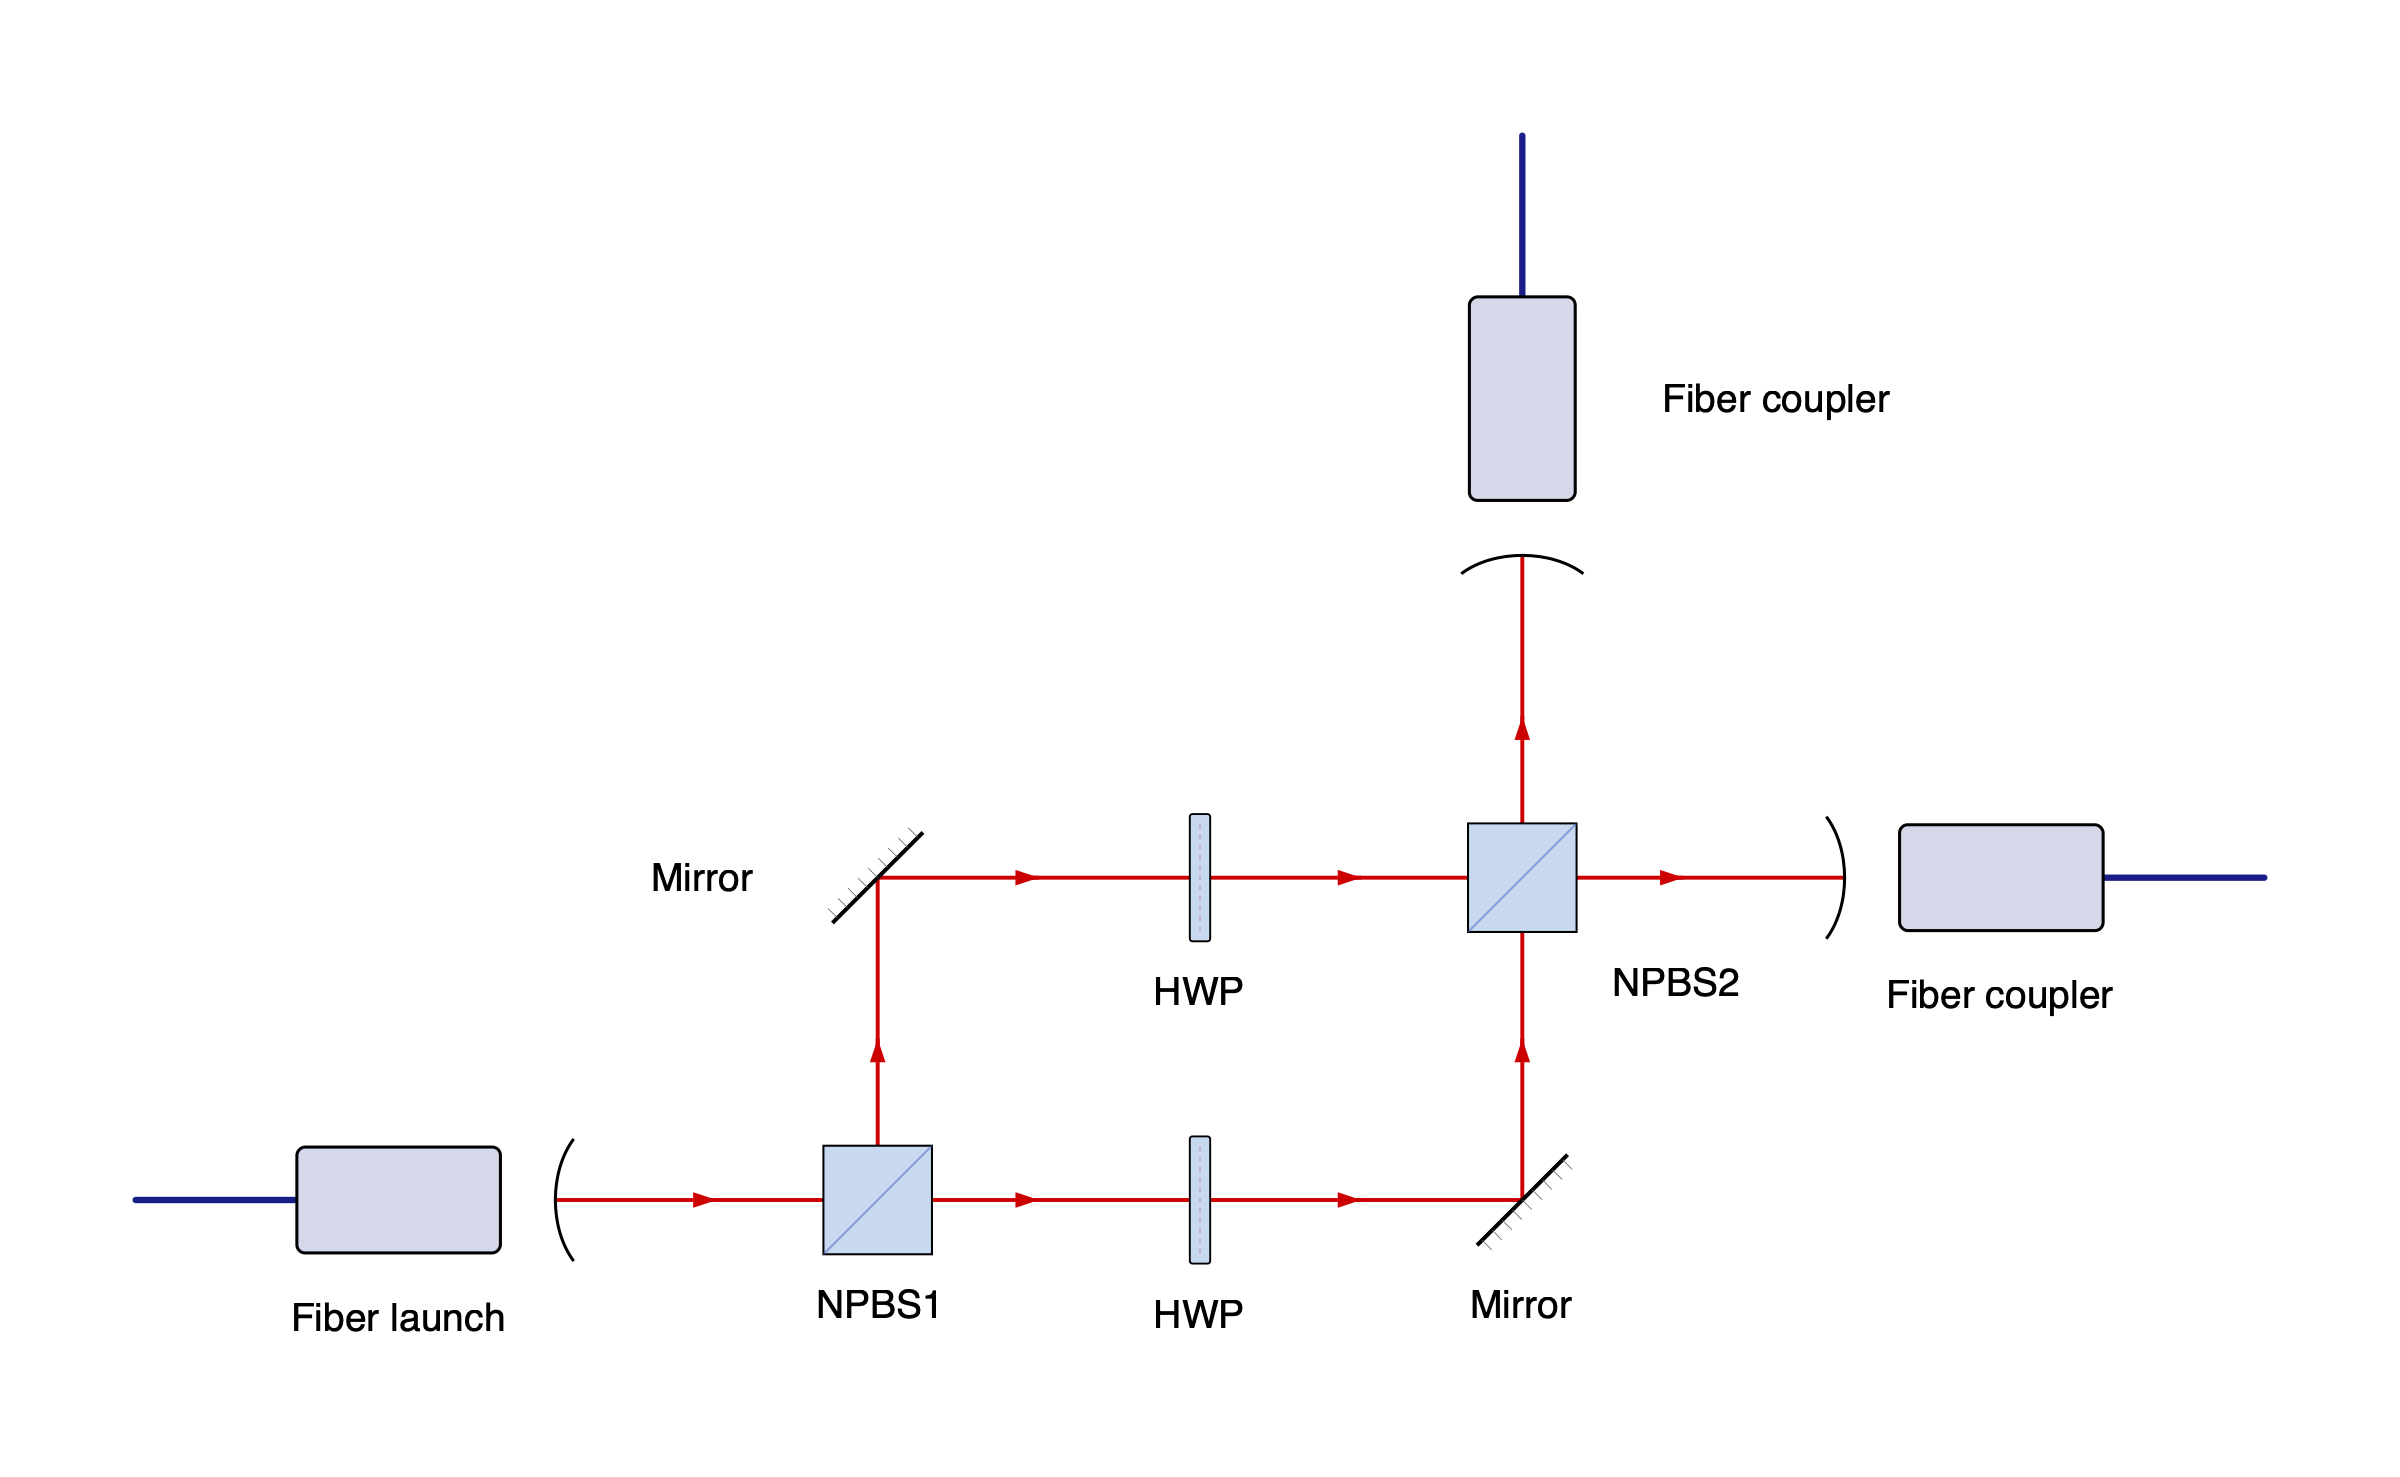
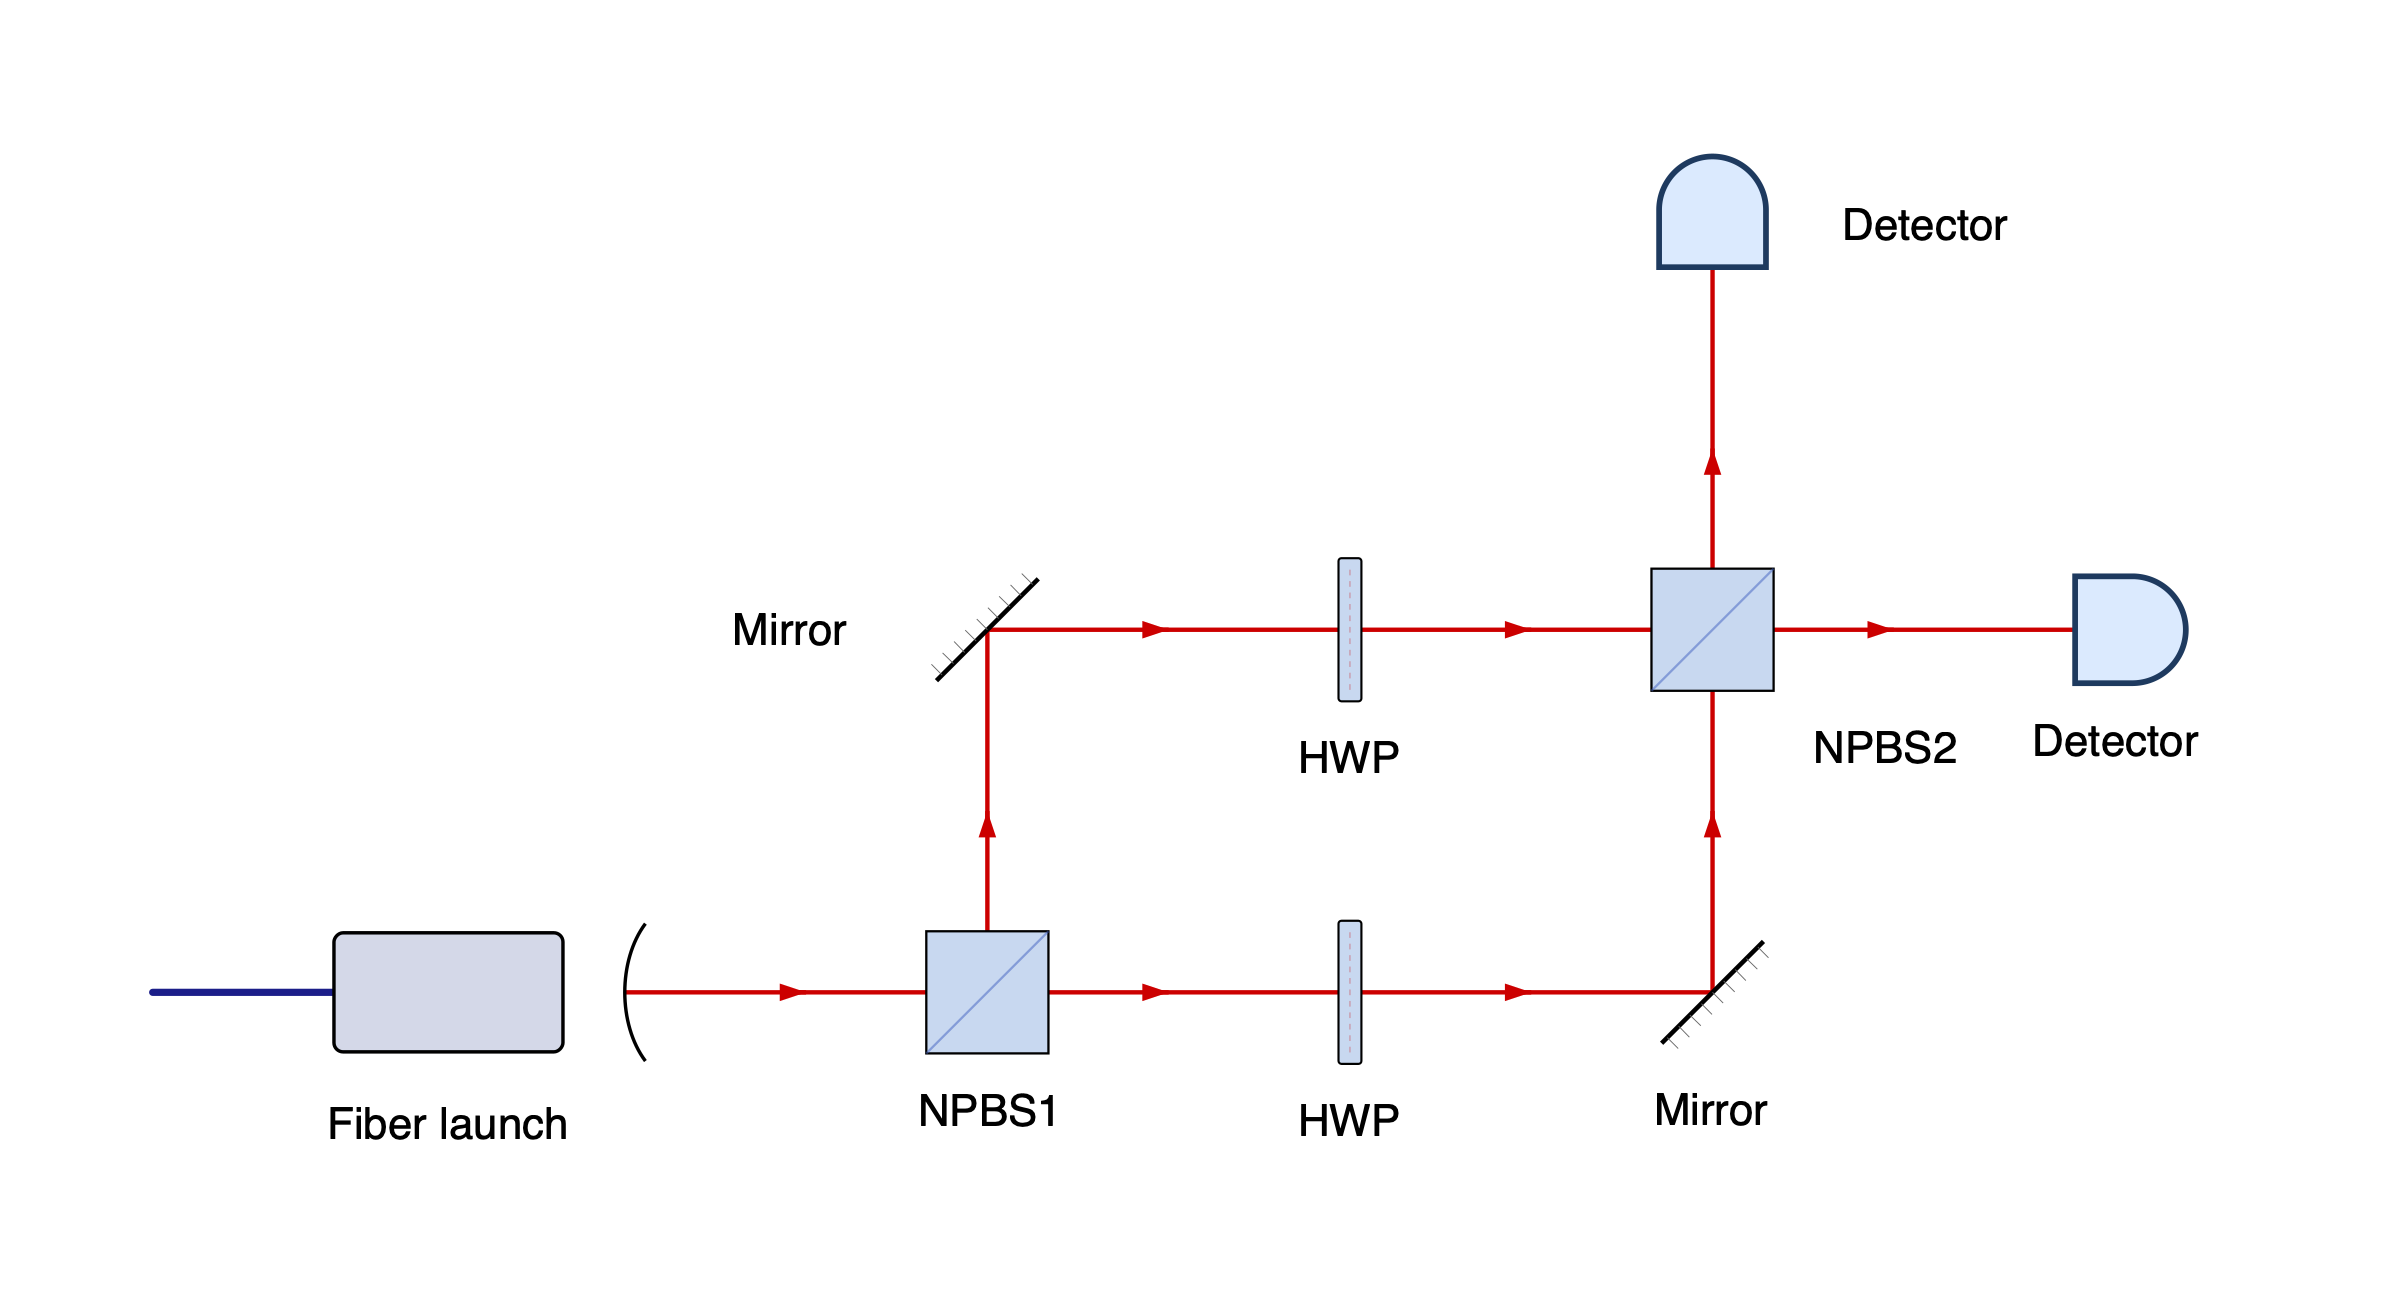
Use detectors for both MZI example outputs

diff --git a/examples/mzi.py b/examples/mzi.py
@@ -6,5 +6,5 @@ setup = fiber_launch() >> beamsplitter("NPBS1", turn="left")
 lower = setup.straight() >> HWP() >> mirror(heading="north")
 upper = setup.reflect() >> mirror(heading="east") >> HWP()
 combined = lower.join(upper, beamsplitter("NPBS2", turn="right"))
-combined.reflect() >> fiber_coupler()
-combined.straight() >> fiber_coupler()
+combined.reflect() >> detector()
+combined.straight() >> detector()

diff --git a/docs/gallery.md b/docs/gallery.md
@@ -205,8 +205,8 @@ setup = fiber_launch() >> beamsplitter("NPBS1", turn="left")
 lower = setup.straight() >> HWP() >> mirror(heading="north")
 upper = setup.reflect() >> mirror(heading="east") >> HWP()
 combined = lower.join(upper, beamsplitter("NPBS2", turn="right"))
-combined.reflect() >> fiber_coupler()
-combined.straight() >> fiber_coupler()
+combined.reflect() >> detector()
+combined.straight() >> detector()
 ```
 
 [Source](../examples/mzi.py)
